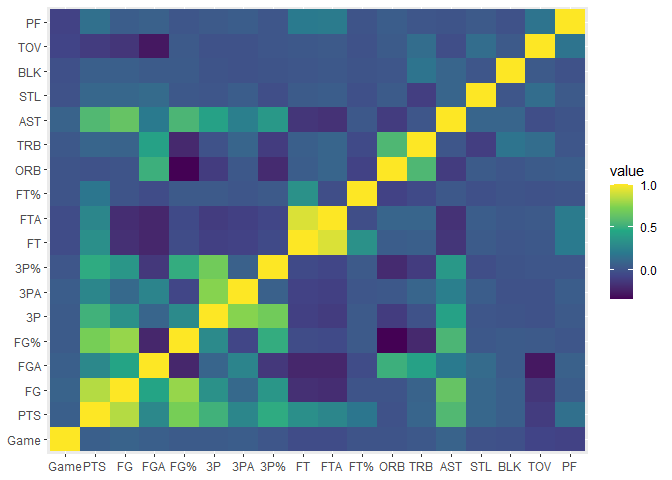
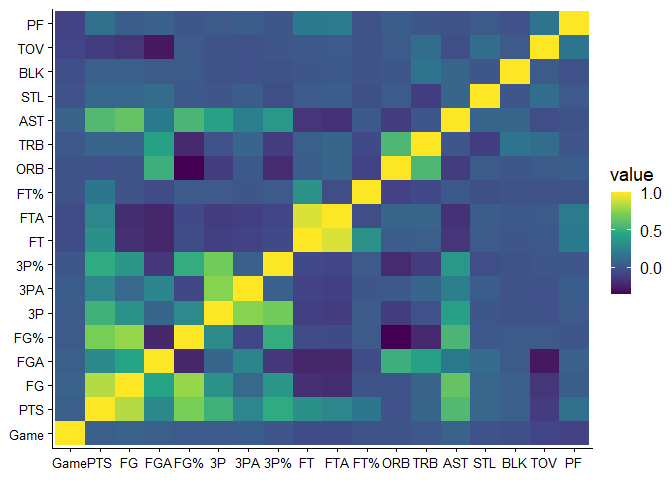
cleaned tables fixed formatting added ggplot for most plots

diff --git a/NBAStats.md b/NBAStats.md
@@ -101,6 +101,17 @@ library(reshape2)
 
 ``` r
 library(ggthemes)
+library(cowplot)
+```
+
+    ## 
+    ## Attaching package: 'cowplot'
+
+    ## The following object is masked from 'package:ggthemes':
+    ## 
+    ##     theme_map
+
+``` r
 library(ROCR)
 ```
 
@@ -198,7 +209,7 @@ str(cleandata) #check variable type
     ##  $ PF       : int  24 20 25 33 17 16 12 20 12 17 ...
 
 ``` r
-cleandata %>% count(WINorLOSS) %>% ggplot(aes(x=WINorLOSS, y= n, fill = WINorLOSS))+geom_bar(stat = "identity") 
+cleandata %>% count(WINorLOSS) %>% ggplot(aes(x=WINorLOSS, y= n, fill = WINorLOSS))+geom_bar(stat = "identity") + scale_fill_viridis_d()+theme_cowplot()
 ```
 
 ![](NBAStats_files/figure-markdown_github/wrangling%20and%20corr%20mat-1.png)
@@ -217,7 +228,7 @@ sapply(cleandata, function(x) sum(is.na(x))) #no NAs present
     ##         0         0         0         0
 
 ``` r
-ggpairs(cleandata, columns = 2:20, aes(color = WINorLOSS))
+ggpairs(cleandata, columns = 2:20, aes(color = WINorLOSS)) + scale_colour_viridis_d()
 ```
 
     ## `stat_bin()` using `bins = 30`. Pick better value with `binwidth`.
@@ -250,49 +261,49 @@ goals, field goal %, 3 point shots and 3 point shot % to a lesser
 extent, total rebounds, assists, and turnovers
 
 ``` r
-plot(WINorLOSS~Home, col = c("#F8766D","#00bfc4"), data = cleandata)
+cleandata %>% ggplot(aes(x=Home, fill=WINorLOSS))+geom_bar(position = "fill")+scale_fill_viridis_d()+labs(y="WINorLOSS")+theme_cowplot()
 ```
 
 ![](NBAStats_files/figure-markdown_github/var%20plots-1.png)
 
 ``` r
-plot(PTS~WINorLOSS, col = c("#F8766D","#00bfc4"), data = cleandata)
+cleandata %>% ggplot(aes(y=PTS, x=WINorLOSS, fill=WINorLOSS))+geom_boxplot()+scale_fill_viridis_d()+theme_cowplot()
 ```
 
 ![](NBAStats_files/figure-markdown_github/var%20plots-2.png)
 
 ``` r
-plot(`FG%`~WINorLOSS, col = c("#F8766D","#00bfc4"), data = cleandata)
+cleandata %>% ggplot(aes(y=`FG%`,x=WINorLOSS, fill=WINorLOSS))+geom_boxplot()+scale_fill_viridis_d()+theme_cowplot()
 ```
 
 ![](NBAStats_files/figure-markdown_github/var%20plots-3.png)
 
 ``` r
-plot(FG~WINorLOSS, col = c("#F8766D","#00bfc4"), data = cleandata)
+cleandata %>% ggplot(aes(y=FG, x=WINorLOSS, fill=WINorLOSS))+geom_boxplot()+scale_fill_viridis_d()+theme_cowplot()
 ```
 
 ![](NBAStats_files/figure-markdown_github/var%20plots-4.png)
 
 ``` r
-plot(`3PA`~WINorLOSS, col = c("#F8766D","#00bfc4"), data = cleandata)
+cleandata %>% ggplot(aes(y=`3PA`, x= WINorLOSS, fill=WINorLOSS))+geom_boxplot()+scale_fill_viridis_d()+theme_cowplot()
 ```
 
 ![](NBAStats_files/figure-markdown_github/var%20plots-5.png)
 
 ``` r
-plot(`3P%`~WINorLOSS, col = c("#F8766D","#00bfc4"), data = cleandata)
+cleandata %>% ggplot(aes(y=`3P%`,x=WINorLOSS, fill=WINorLOSS))+geom_boxplot()+scale_fill_viridis_d()+theme_cowplot()
 ```
 
 ![](NBAStats_files/figure-markdown_github/var%20plots-6.png)
 
 ``` r
-plot(TRB~WINorLOSS, col = c("#F8766D","#00bfc4"), data = cleandata)
+cleandata %>% ggplot(aes(y=TRB, x=WINorLOSS, fill=WINorLOSS))+geom_boxplot()+scale_fill_viridis_d()+theme_cowplot()
 ```
 
 ![](NBAStats_files/figure-markdown_github/var%20plots-7.png)
 
 ``` r
-plot(AST~WINorLOSS, col = c("#F8766D","#00bfc4"), data = cleandata)
+cleandata %>% ggplot(aes(y=AST, x=WINorLOSS, fill=WINorLOSS))+geom_boxplot()+scale_fill_viridis_d()+theme_cowplot()
 ```
 
 ![](NBAStats_files/figure-markdown_github/var%20plots-8.png)
@@ -303,7 +314,7 @@ explanatory variables
 cleandata.corr <- round(cor(cleandata[,c(2,4:20)]),2)
 cleandata.corr <- melt(cleandata.corr)
 
-cleandata.corr %>% ggplot(aes(x=Var1, y=Var2, fill=value))+geom_tile()+scale_fill_viridis_c()+theme(axis.title.x = element_blank(),axis.title.y = element_blank())
+cleandata.corr %>% ggplot(aes(x=Var1, y=Var2, fill=value))+geom_tile()+scale_fill_viridis_c()+theme_cowplot()+theme(axis.title.x = element_blank(),axis.title.y = element_blank(), axis.text = element_text(size = 10))
 ```
 
 ![](NBAStats_files/figure-markdown_github/heatmap-1.png) Not
@@ -890,12 +901,13 @@ bkw.roc <- performance(bkw.pred.roc, "tpr", "fpr")
 simple.pred.roc <- prediction(predict(simple.mod, newdata = test, type = "response"), test$WINorLOSS)
 simple.roc <- performance(simple.pred.roc, "tpr", "fpr")
 
-plot(simple.roc, col = "#5ec962", lwd = 1)
-plot(bkw.roc, col = "#3b528b", lwd = 1, add = TRUE)
-plot(step.roc, col = "#21918c", lwd = 1, add = TRUE)
-plot(lasso.roc, col = "#fde725", lwd = 1, add =TRUE)
-plot(custom.roc, col = "#440154", lwd = 1, add = TRUE)
-legend(x = .75, y = .4, legend = c("simple", "backwards", "stepwise", "lasso", "custom"), col = c("#5ec962", "#3b528b", "#21918c", "#fde725", "#440154"), lty =1)
+df.roc <- rbind(data.frame(x.vals=simple.roc@x.values[[1]], y.vals=simple.roc@y.values[[1]],model = "simple"),
+                data.frame(x.vals=bkw.roc@x.values[[1]], y.vals=bkw.roc@y.values[[1]], model="bkw"),
+                data.frame(x.vals=step.roc@x.values[[1]], y.vals=step.roc@y.values[[1]], model="step"),
+                data.frame(x.vals=lasso.roc@x.values[[1]], y.vals=lasso.roc@y.values[[1]], model="lasso"),
+                data.frame(x.vals=custom.roc@x.values[[1]], y.vals=custom.roc@y.values[[1]], model="custom"))
+df.roc$model <- factor(df.roc$model, levels = c("simple", "bkw", "step", "lasso", "custom"))
+df.roc %>% ggplot(aes(x=x.vals,y=y.vals, color = model))+geom_line(size=.55)+theme_cowplot()+labs(x="False positive rate", y="True positive rate")+scale_color_viridis_d(direction = -1)
 ```
 
 ![](NBAStats_files/figure-markdown_github/roc%20plot-1.png)
@@ -2072,8 +2084,21 @@ qda.roc <- performance(qda.pred.roc, "tpr", "fpr")
 rf.pred.roc <- prediction(predict(rf.mod, test.rf, type = "prob")[,2],test.rf$WINorLOSS)
 rf.roc <- performance(rf.pred.roc, "tpr", "fpr")
 
+df.roc <- rbind(data.frame(x.vals=lasso2.roc@x.values[[1]], y.vals=lasso2.roc@y.values[[1]],model="lasso2"),
+                data.frame(x.vals=lda.roc@x.values[[1]], y.vals=lda.roc@y.values[[1]], model="lda"),
+                data.frame(x.vals=qda.roc@x.values[[1]], y.vals=qda.roc@y.values[[1]], model="qda"),
+                data.frame(x.vals=rf.roc@x.values[[1]], y.vals=rf.roc@y.values[[1]], model = "rf"),
+                data.frame(x.vals=complex.roc@x.values[[1]], y.vals=complex.roc@y.values[[1]], model="complex"),
+                df.roc)
+df.roc$model <- factor(df.roc$model, levels = c("simple", "bkw", "step", "lasso", "custom", "rf", "lda", "qda", "lasso2", "complex"))
 
+df.roc %>% filter(model %in% c("custom", "rf", "lda", "qda", "lasso2", "complex")) %>% 
+  ggplot(aes(x=x.vals, y=y.vals, color = model))+geom_line()+theme_cowplot()+scale_color_viridis_d(direction = -1)+labs(x="False positive rate", y="True positive rate")
+```
 
+![](NBAStats_files/figure-markdown_github/new%20roc%20plot-1.png)
+
+``` r
 plot(custom.roc, col="#fde725", lwd=1)
 plot(lasso2.roc, lwd = 1, add = TRUE, col = "#3b528b")
 plot(lda.roc, lwd = 1, add = TRUE, col = "#21918c")
@@ -2083,4 +2108,4 @@ plot(complex.roc, col = "#440154", lwd = 1, add = TRUE)
 legend(x = .75, y = .50, legend = c("simple", "backwards", "stepwise", "lasso", "custom","complex"), col = c("#fde725", "#3b528b", "#21918c", "#7ad151", "#414487", "440154"), lty =1)
 ```
 
-![](NBAStats_files/figure-markdown_github/new%20roc%20plot-1.png)
+![](NBAStats_files/figure-markdown_github/new%20roc%20plot-2.png)
